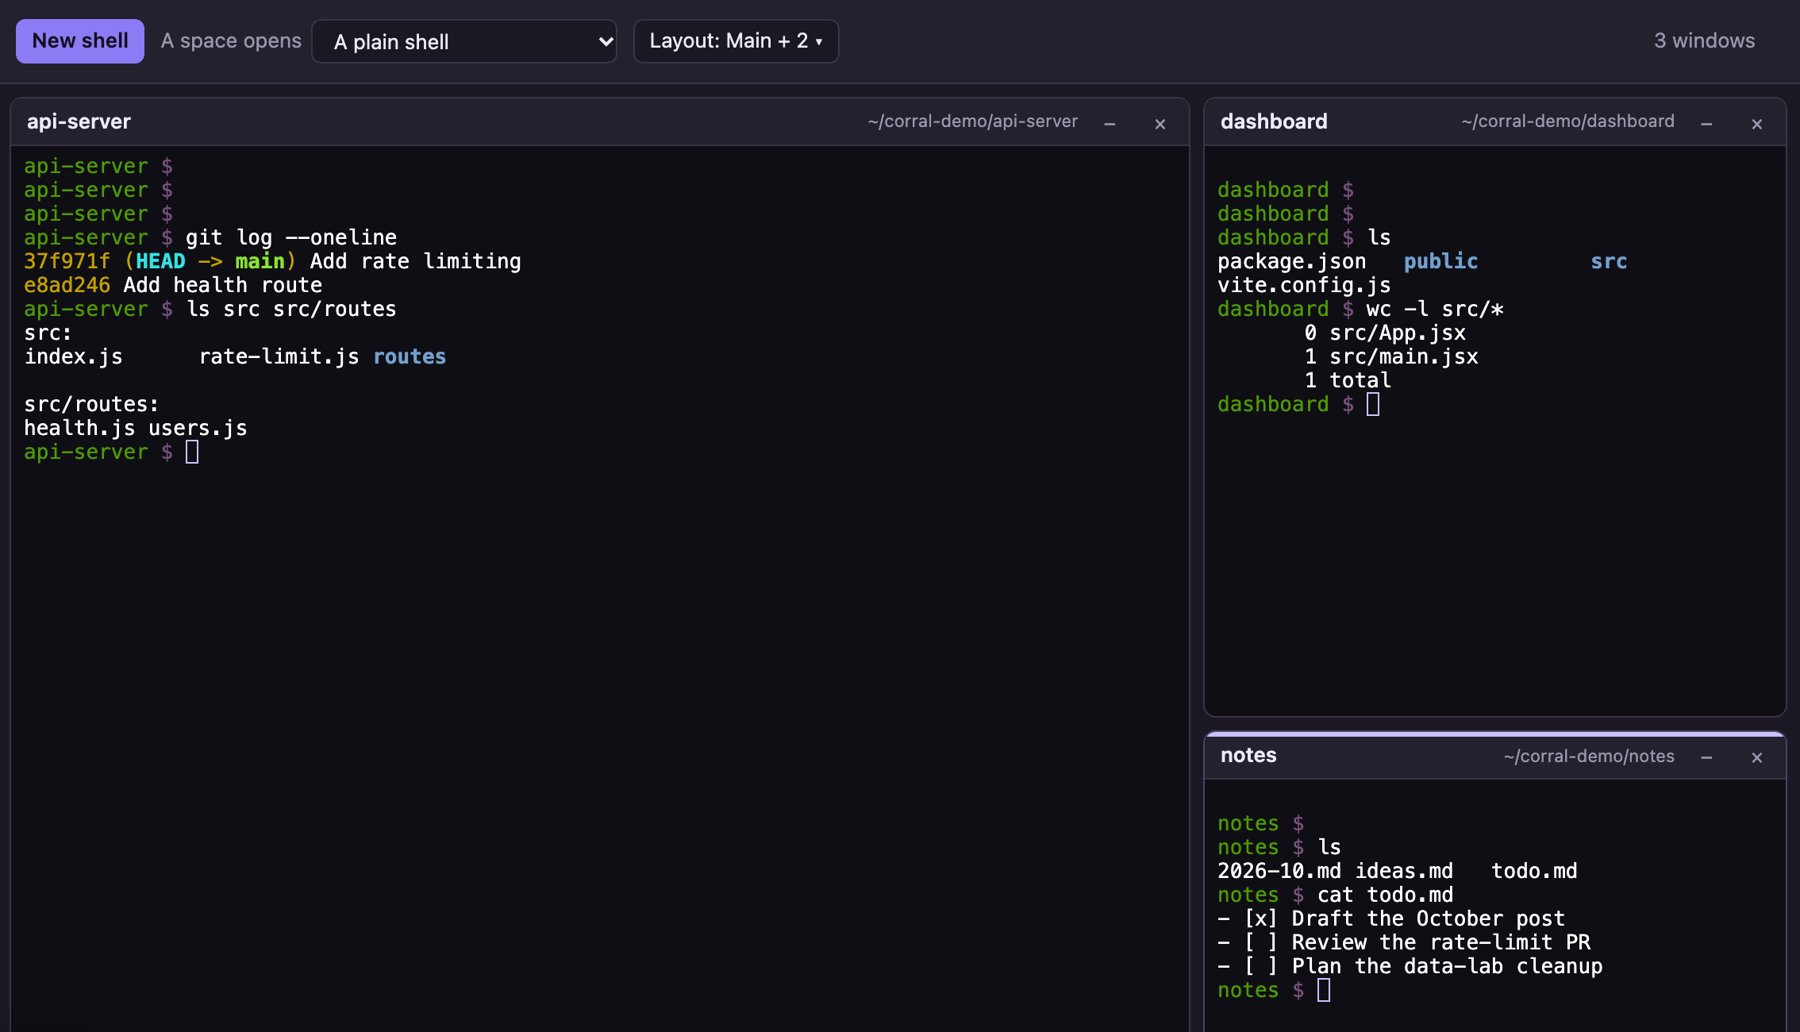
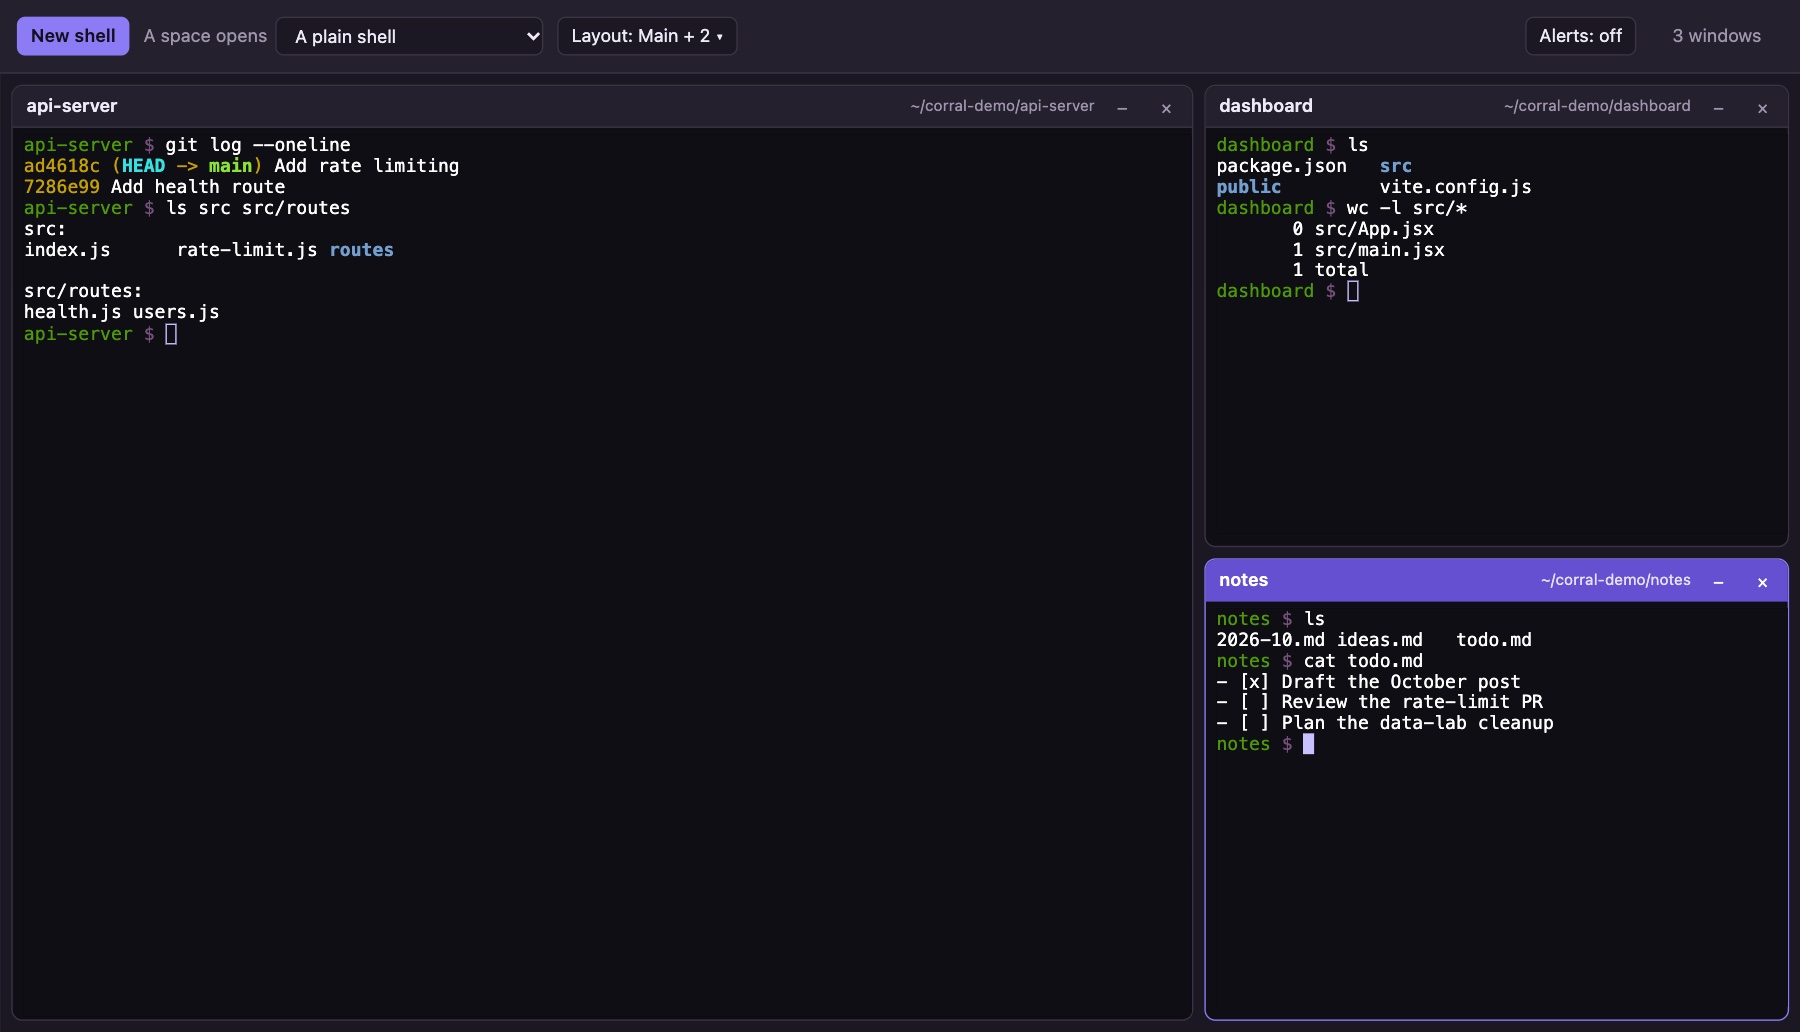
Focused window gets a solid purple title bar; retake the site shots
The focused window's title bar is now #6450d0 with white text (5.8:1)
and a purple border, in place of the thin lavender rail across its top.
workspace.jpg and terminals.jpg are retaken from the demo sandbox at the
same sizes, and their alt text names the focused window.

Claude-Session: https://claude.ai/code/session_018DakqtrDhKT3WGtAB5B7fj

diff --git a/public/index.html b/public/index.html
@@ -137,9 +137,12 @@
   .slot, .zone-empty { position:absolute; padding:4px; min-width:0; min-height:0; }
   .win { position:relative; height:100%; display:flex; flex-direction:column; min-width:0; background:var(--term); border:1px solid var(--rail);
          border-radius:8px; overflow:hidden; }
-  /* The focused window has its gate closed: a lavender rail across the top. */
-  .win.focus { border-color:#4d4366; }
-  .win.focus::after { content:''; position:absolute; left:0; right:0; top:0; height:3px; background:var(--lavender); pointer-events:none; }
+  /* The focused window: a purple border and a solid purple title bar, deep enough for white text (5.8:1). */
+  .win.focus { border-color:var(--fence); }
+  .win.focus .title { background:#6450d0; border-bottom-color:#6450d0; }
+  .win.focus .title .t, .win.focus .title button { color:#fff; }
+  .win.focus .title .cwd { color:#e6e1ff; }
+  .win.focus .title button:hover { border-color:#e6e1ff; }
   .title { display:flex; align-items:center; gap:8px; padding:5px 6px 4px 10px; background:var(--panel);
            border-bottom:1px solid var(--rail); cursor:grab; }
   .title .t { flex:1; overflow:hidden; text-overflow:ellipsis; white-space:nowrap; font-weight:600; }

diff --git a/docs/index.html b/docs/index.html
@@ -219,7 +219,7 @@
 
     <div class="shot">
       <img src="img/workspace.jpg" width="2000" height="1194"
-           alt="Corral in a browser: a sidebar of herdr spaces grouped into Work, Writing, and Uncategorized, with three terminal windows (api-server, dashboard, and notes) tiled on the right.">
+           alt="Corral in a browser: a sidebar of herdr spaces grouped into Work, Writing, and Uncategorized, with three terminal windows (api-server, dashboard, and notes) tiled on the right. The focused window, notes, has a purple title bar.">
     </div>
   </div>
   <svg class="fence" viewBox="0 0 1200 44" preserveAspectRatio="none" aria-hidden="true">
@@ -357,7 +357,7 @@
         </div>
         <div class="frame">
           <img src="img/terminals.jpg" width="1800" height="1032" loading="lazy"
-               alt="Three Corral terminals in the Main + 2 layout: api-server large on the left, dashboard and notes stacked on the right.">
+               alt="Three Corral terminals in the Main + 2 layout: api-server large on the left, dashboard and notes stacked on the right, with notes focused under a purple title bar.">
         </div>
       </div>
     </div>

diff --git a/NEWS.md b/NEWS.md
@@ -5,6 +5,11 @@ in `package.json`.
 
 ## Development version
 
+- The **focused window** on the Mac page now has a solid purple title bar
+  (and a purple border) in place of the thin lavender line across its top,
+  so the window your typing goes to is plain at a glance. The site's
+  workspace and layout screenshots are retaken to match.
+
 - **New repos get a space in one click.** A new **New in ~/repos** section
   in the sidebar lists git repos made in the last 14 days that herdr has
   never had a space for. **Add to herdr** makes the space, which then
